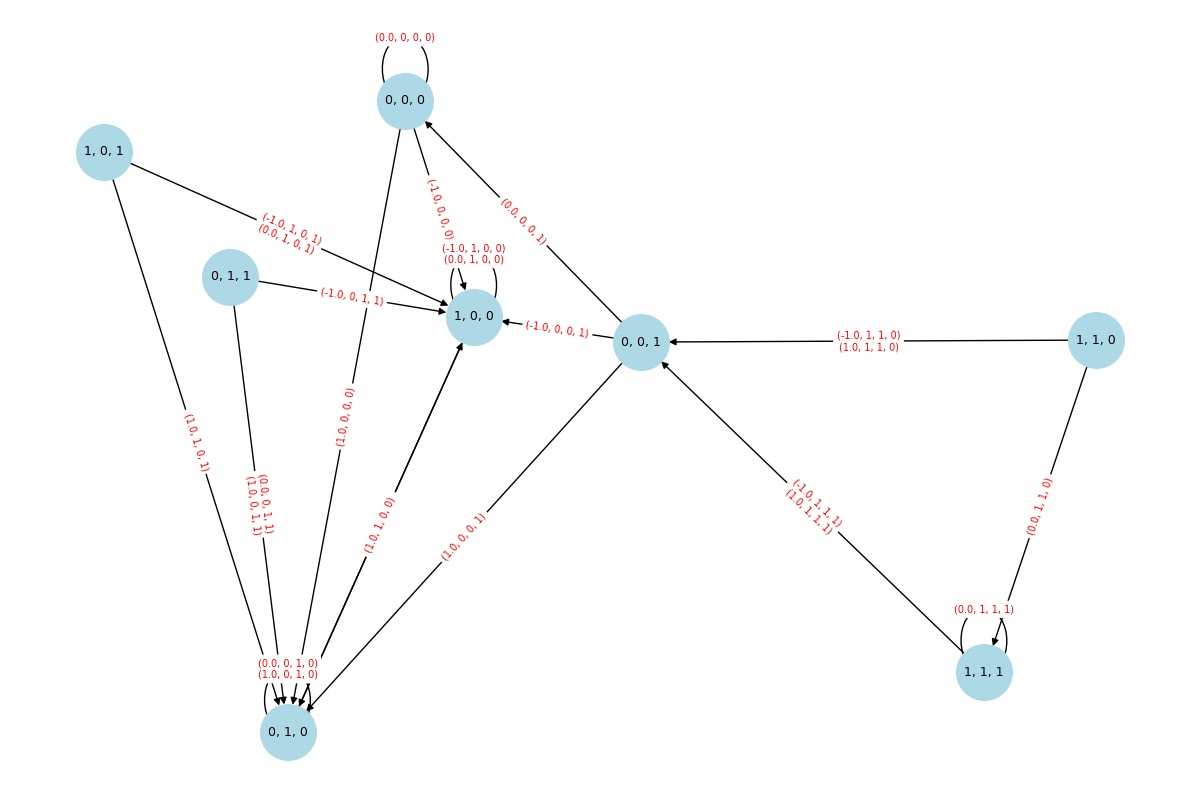
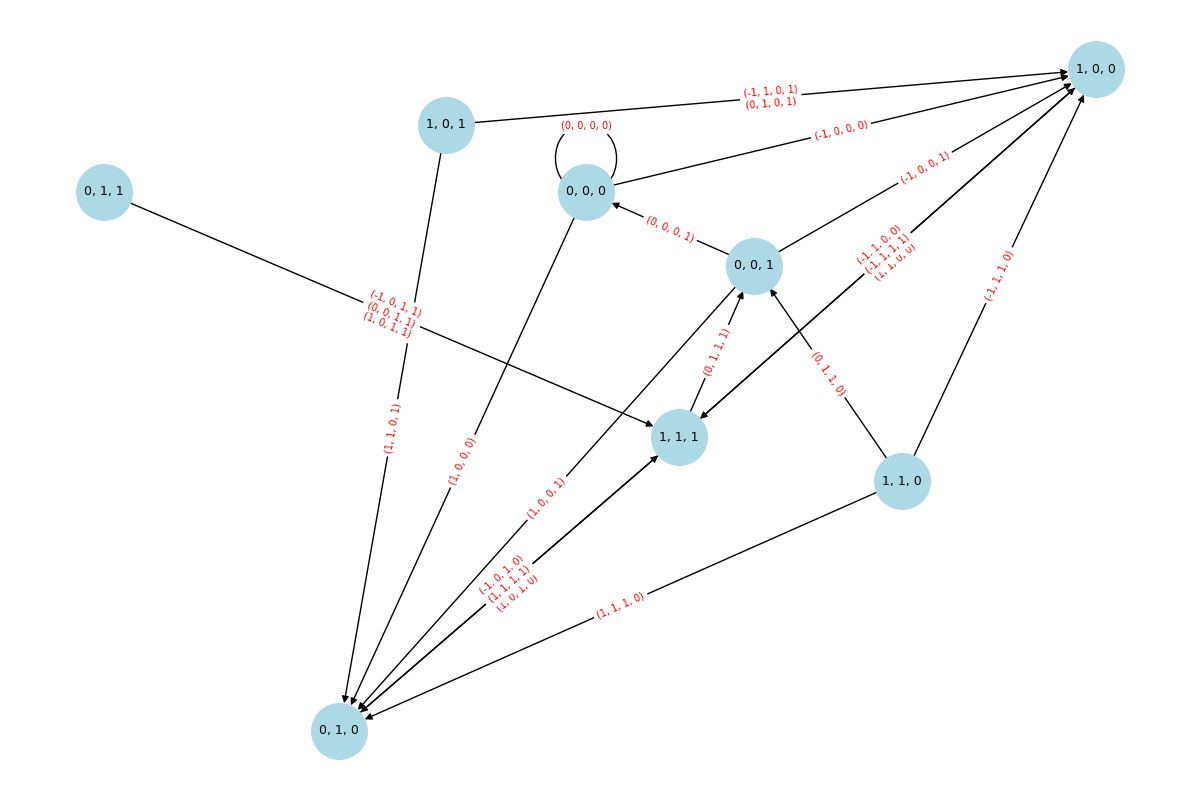
update

diff --git a/main.py b/main.py
@@ -13,23 +13,30 @@ from glucose import (
 def transition(state: tuple[int, int, int], G: float) -> tuple[int, int, int]:
     prev_alpha, prev_beta, prev_delta = state
     new_alpha, new_beta, new_delta = prev_alpha, prev_beta, 0
-
+    if state == (1, 0, 0):
+        return (1, 1, 1)
+    if state == (0, 1, 0) or state == (0, 1, 1):
+        return (1, 1, 1)
     if G >= glucose.G_max_bound:
         new_alpha, new_beta = 0, 1
+        return (new_alpha, new_beta, new_delta)
     elif G <= glucose.G_min_bound:
         new_alpha, new_beta = 1, 0
-
+        return (new_alpha, new_beta, new_delta)
     # Дельта-клетки: активируются только если в предыдущем состоянии
     # были активны и альфа, и бета (конфликт)
     if prev_alpha == 1 and prev_beta == 1:
         new_delta = 1
         new_alpha, new_beta = 0, 0  # Сбрасываем конфликт
+        return (new_alpha, new_beta, new_delta)
         
     # Задержка деактивации: клетки остаются активными 1 шаг после выхода из их зоны
     if new_alpha == 0 and G > glucose.G_min_bound and G < glucose.G_max_bound:
         new_alpha = prev_alpha  # Сохраняем предыдущее состояние альфа
+        return (new_alpha, new_beta, new_delta)
     if new_beta == 0 and G > glucose.G_min_bound and G < glucose.G_max_bound:
         new_beta = prev_beta  # Сохраняем предыдущее состояние бета
+        return (new_alpha, new_beta, new_delta)
 
     return (new_alpha, new_beta, new_delta)
 # ----------------------------------
@@ -74,7 +81,7 @@ def build_full_graph():
 
 
 def simulate():
-    time_points = np.linspace(0, 100, 1000) 
+    time_points = np.linspace(0, 100, 100) 
     states_over_time = []
     glucose_over_time = []
 
@@ -91,7 +98,7 @@ def simulate():
 # ----------------------------------
 # 6. Построение графиков: комбинированный граф (глюкоза и состояния)
 # ----------------------------------
-def plot_simulation(time_points, states_over_time, glucose_over_time):
+def plot_simulation1(time_points, states_over_time, glucose_over_time):
     unique = sorted({s for s in states_over_time}, key=lambda s: state_label(s))
     mapping = {s: i for i, s in enumerate(unique)}
     numeric_states = [mapping[s] for s in states_over_time]
@@ -128,6 +135,72 @@ def plot_simulation(time_points, states_over_time, glucose_over_time):
     plt.savefig("graph2.png")
 
 
+#////////////////////////////////////
+
+def plot_simulation(time_points, states_over_time, glucose_over_time, glucose):
+    """
+    Построение единой фигуры, где:
+      - первая ось (subplots[0]) – график уровня глюкозы с нанесёнными горизонтальными
+        пунктирными линиями в позициях glucose.G_min_bound и glucose.G_max_bound,
+      - следующие оси – графики активности чистых состояний:
+            (1, 0, 0), (0, 1, 0) и (0, 0, 1).
+    
+    Если в каком-то такте значение состояния смешанное, например, (1, 1, 0),
+    то считается, что активны и (1, 0, 0), и (0, 1, 0).
+    
+    Параметры:
+      time_points      - массив временных точек
+      states_over_time - последовательность состояний автомата, где состояние представлено кортежем,
+                         например, (1, 0, 0) или (1, 1, 0)
+      glucose_over_time- значения уровня глюкозы по времени
+      glucose          - объект с атрибутами:
+                         G_min, G_max, G_middle, G_min_bound, G_max_bound
+    """
+    # Всегда будем выводить 1 график для глюкозы + 3 графика для активности каждой чистой компоненты.
+    total_plots = 4
+    fig, axes = plt.subplots(total_plots, 1, figsize=(12, 3 * total_plots), sharex=True)
+    
+    # 1. График уровня глюкозы
+    ax0 = axes[0]
+    ax0.step(time_points, glucose_over_time, where='post', color='black',
+             label='Уровень глюкозы', linewidth=2)
+    ax0.set_ylabel("Глюкоза")
+    ax0.set_title("Уровень глюкозы")
+    ax0.set_ylim(-2.5, 2.5)
+    ax0.axhline(glucose.G_min_bound, color='blue', linestyle='--', linewidth=2,
+                label=f'G_min_bound = {glucose.G_min_bound}')
+    ax0.axhline(glucose.G_max_bound, color='blue', linestyle='--', linewidth=2,
+                label=f'G_max_bound = {glucose.G_max_bound}')
+    ax0.legend(loc='upper right')
+    ax0.grid(True)
+    
+    state1_activity = [1 if s[0] == 1 else 0 for s in states_over_time]
+    state2_activity = [1 if s[1] == 1 else 0 for s in states_over_time]
+    state3_activity = [1 if s[2] == 1 else 0 for s in states_over_time]
+    
+    axes[1].step(time_points, state1_activity, where='post', color='green', linewidth=2)
+    axes[1].set_ylabel("(1, 0, 0)")
+    axes[1].set_ylim(-0.1, 1.1)
+    axes[1].grid(True)
+    
+    axes[2].step(time_points, state2_activity, where='post', color='orange', linewidth=2)
+    axes[2].set_ylabel("(0, 1, 0)")
+    axes[2].set_ylim(-0.1, 1.1)
+    axes[2].grid(True)
+    
+    # График для чистого состояния (0, 0, 1)
+    axes[3].step(time_points, state3_activity, where='post', color='purple', linewidth=2)
+    axes[3].set_ylabel("(0, 0, 1)")
+    axes[3].set_ylim(-0.1, 1.1)
+    axes[3].grid(True)
+    
+    # Общая настройка нижней оси
+    axes[-1].set_xlabel("Время")
+    fig.suptitle("Моделирование: уровень глюкозы и активность чистых состояний", fontsize=16)
+    plt.tight_layout(rect=[0, 0, 1, 0.96])
+    plt.savefig("simulation_plot.png")
+    plt.show()
+
 if __name__ == "__main__":
     # Строим полный граф переходов
     full_graph, full_edge_labels = build_full_graph()
@@ -139,9 +212,8 @@ if __name__ == "__main__":
     plt.title("Полный граф переходов (G∈{0,1,2}, состояния как буквы)")
     plt.savefig("graph.png")
 
-    # Симулируем 24 часа
     t_points, states_over_time, glucose_over_time = simulate()
-    plot_simulation(t_points, states_over_time, glucose_over_time)
+    plot_simulation(t_points, states_over_time, glucose_over_time, glucose)
 
     # Вывод таблицы переходов
     print("Таблица переходов (24 часа):")
@@ -152,4 +224,22 @@ if __name__ == "__main__":
             break
         # print(f"t={t}, G={g}, state={state_label(s)} -> next={state_label(transition(s, g))}")
         print(f"t={t:6.2f}, G={g}, state={state_label(s):10} -> next={state_label(transition(s, g))}")
+
+
+
+
+
+
+
+
+
+# 1. Екатерина проверит со мной автомат
+# 2. Реализовать более просто автомат: в нем будет 3 состояния (альфа кран, бета кран, l1 * альфа кран и l1 * бета кран).
+# 3. Причина резализации 2: сверхвысокочастотные колебания ("шаг интегрирования"). 
+# 4. ПОКА БЕЗ ЗАРЕЖКИ.
+
+
+
+# (1, 0, 0), (0, 1, 0), (0, 0, 1)
+
 

diff --git a/glucose.py b/glucose.py
@@ -7,17 +7,21 @@ class Glucose:
         self.t_max = t_max
         self.num_points = num_points
         self.t = np.linspace(t_min, t_max, num_points)
-        self.values = self.glucose_func(self.t)
-        self.G_min = np.round(np.min(self.values), 1)
-        self.G_max = np.round(np.max(self.values), 1)
+        # self.values = self.glucose_func(self.t)
+        self.G_min = -1
+        self.G_max = 1
 
-        self.G_middle = np.round((self.G_min + self.G_max) / 2.0, 1)
+        self.G_middle = int(np.round((self.G_min + self.G_max) / 2.0, 1))
         self.G_range = self.G_max - self.G_min
         self.G_min_bound = np.round(self.G_min + fraction * self.G_range, 1)
         self.G_max_bound = np.round(self.G_min + (1 - fraction) * self.G_range, 1)
 
     def glucose_func(self, t):
         return np.sin(t/2)
+    
+    def glucose_func_(self, t):
+        condition = (t // 10) % 2 == 0
+        return 1 if condition else 0
     
     def modify_G(self, G: float) -> int:
         if G < self.G_min_bound:
